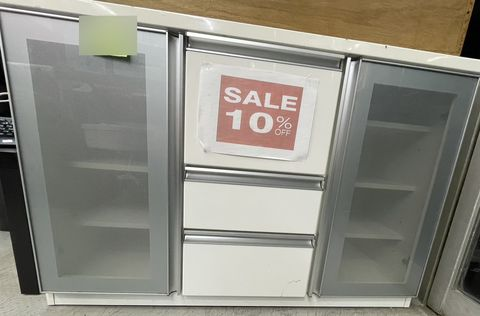
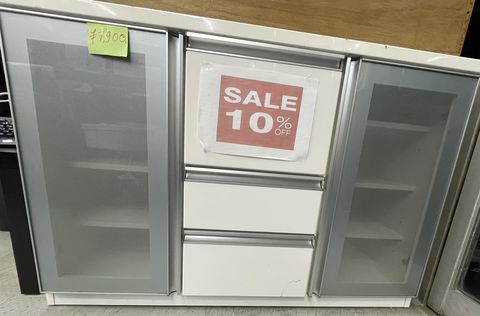
商品写真の値札のぼかしを外す（店の表示なので隠さない。冷蔵庫の扉のチラシだけ塗りつぶしを維持）
Claude-Session: https://claude.ai/code/session_01SjyJFCHcPjMxiYWJp92u8a

Changed region(s): [[0.1562, 0.0285, 0.3125, 0.1994]]

diff --git a/tools/photos.py b/tools/photos.py
@@ -3,8 +3,8 @@
 
   python3 tools/photos.py <元写真のフォルダ> [--out assets/shop]
 
-- 1品ずつトリミング（値札・周りの商品・人をなるべく外す）。外しきれない値札・掲示はぼかす。
-- 冷蔵庫（aqua-fridge-355）の扉に貼られたチラシ（電話番号・LINE の QR）は扉の色で塗りつぶしてからぼかす。
+- 1品ずつトリミング（周りの商品・人をなるべく外す）。店の値札はそのまま見せる（ぼかさない。オーナー指示 2026-11-10）。
+- 冷蔵庫（aqua-fridge-355）の扉に貼られたチラシ（電話番号・LINE の QR）は扉の色で塗りつぶす。
 - 長辺 1200px（<id>.jpg）とサムネ 480px（<id>-480.jpg）、JPEG 品質 80。
 - EXIF・GPS・ICC などのメタデータは一切残さない（画素だけを新しい画像に貼り直して保存）。
 - 座標は向きを直した元写真に対する割合（0〜1）で (左, 上, 右, 下)。
@@ -16,17 +16,17 @@ from PIL import Image, ImageFilter, ImageOps, ImageStat
 
 # id: (元写真のファイル名, トリミング枠, ぼかす枠のリスト, 塗りつぶす枠のリスト)
 PHOTOS = {
-    "figurine-children": ("figurine_2280.jpg", (0.17, 0.15, 0.78, 0.92), [(0.34, 0.46, 0.56, 0.59)], []),
-    "bronze-vase": ("bronze_vase_2800.jpg", (0.19, 0.08, 0.82, 1.0), [(0.45, 0.39, 0.56, 0.46)], []),
-    "wood-statue": ("wood_statue_5650.jpg", (0.15, 0.02, 0.72, 1.0), [(0.43, 0.09, 0.57, 0.16)], []),
-    "citizen-wall-clock": ("citizen_clock_3300.jpg", (0.10, 0.085, 0.84, 0.99), [(0.76, 0.68, 0.86, 0.77)], []),
-    "cupboard-white": ("cupboard_white_price_unclear.jpg", (0.02, 0.0, 0.93, 0.80), [(0.17, 0.04, 0.28, 0.14)], []),
-    "rice-cooker-2024": ("rice_cooker_new_2024_8200.jpg", (0.12, 0.15, 0.93, 0.92), [(0.47, 0.32, 0.63, 0.51)], []),
-    "drum-washer": ("drum_washer_45000.jpg", (0.21, 0.06, 0.92, 0.92), [(0.57, 0.28, 0.79, 0.49)], []),
+    "figurine-children": ("figurine_2280.jpg", (0.17, 0.15, 0.78, 0.92), [], []),
+    "bronze-vase": ("bronze_vase_2800.jpg", (0.19, 0.08, 0.82, 1.0), [], []),
+    "wood-statue": ("wood_statue_5650.jpg", (0.15, 0.02, 0.72, 1.0), [], []),
+    "citizen-wall-clock": ("citizen_clock_3300.jpg", (0.10, 0.085, 0.84, 0.99), [], []),
+    "cupboard-white": ("cupboard_white_price_unclear.jpg", (0.02, 0.0, 0.93, 0.80), [], []),
+    "rice-cooker-2024": ("rice_cooker_new_2024_8200.jpg", (0.12, 0.15, 0.93, 0.92), [], []),
+    "drum-washer": ("drum_washer_45000.jpg", (0.21, 0.06, 0.92, 0.92), [], []),
     "aqua-fridge-355": ("aqua_fridge_355L_2024_65000_HAS_POSTER_QR.jpg", (0.26, 0.03, 0.70, 0.97), [], [(0.29, 0.04, 0.75, 0.47)]),
-    "fitness-bike": ("fitness_bike_price_unknown.jpg", (0.22, 0.02, 0.68, 0.99), [(0.44, 0.13, 0.52, 0.19)], []),
-    "industrial-fan": ("industrial_fan_5500.jpg", (0.18, 0.04, 0.76, 1.0), [(0.41, 0.26, 0.53, 0.34)], []),
-    "dresser-mirror": ("dresser_price_unknown.jpg", (0.02, 0.02, 0.80, 0.88), [(0.08, 0.02, 0.22, 0.09)], []),
+    "fitness-bike": ("fitness_bike_price_unknown.jpg", (0.22, 0.02, 0.68, 0.99), [], []),
+    "industrial-fan": ("industrial_fan_5500.jpg", (0.18, 0.04, 0.76, 1.0), [], []),
+    "dresser-mirror": ("dresser_price_unknown.jpg", (0.02, 0.02, 0.80, 0.88), [], []),
     "electric-heater": ("electric_heater_soldout.jpg", (0.13, 0.18, 0.855, 0.85), [], []),
     "acoustic-guitar": ("acoustic_guitar_price_unknown.jpg", (0.20, 0.0, 0.80, 0.99), [], []),
     # 商品ではない紹介用（衣類の店頭販売）
